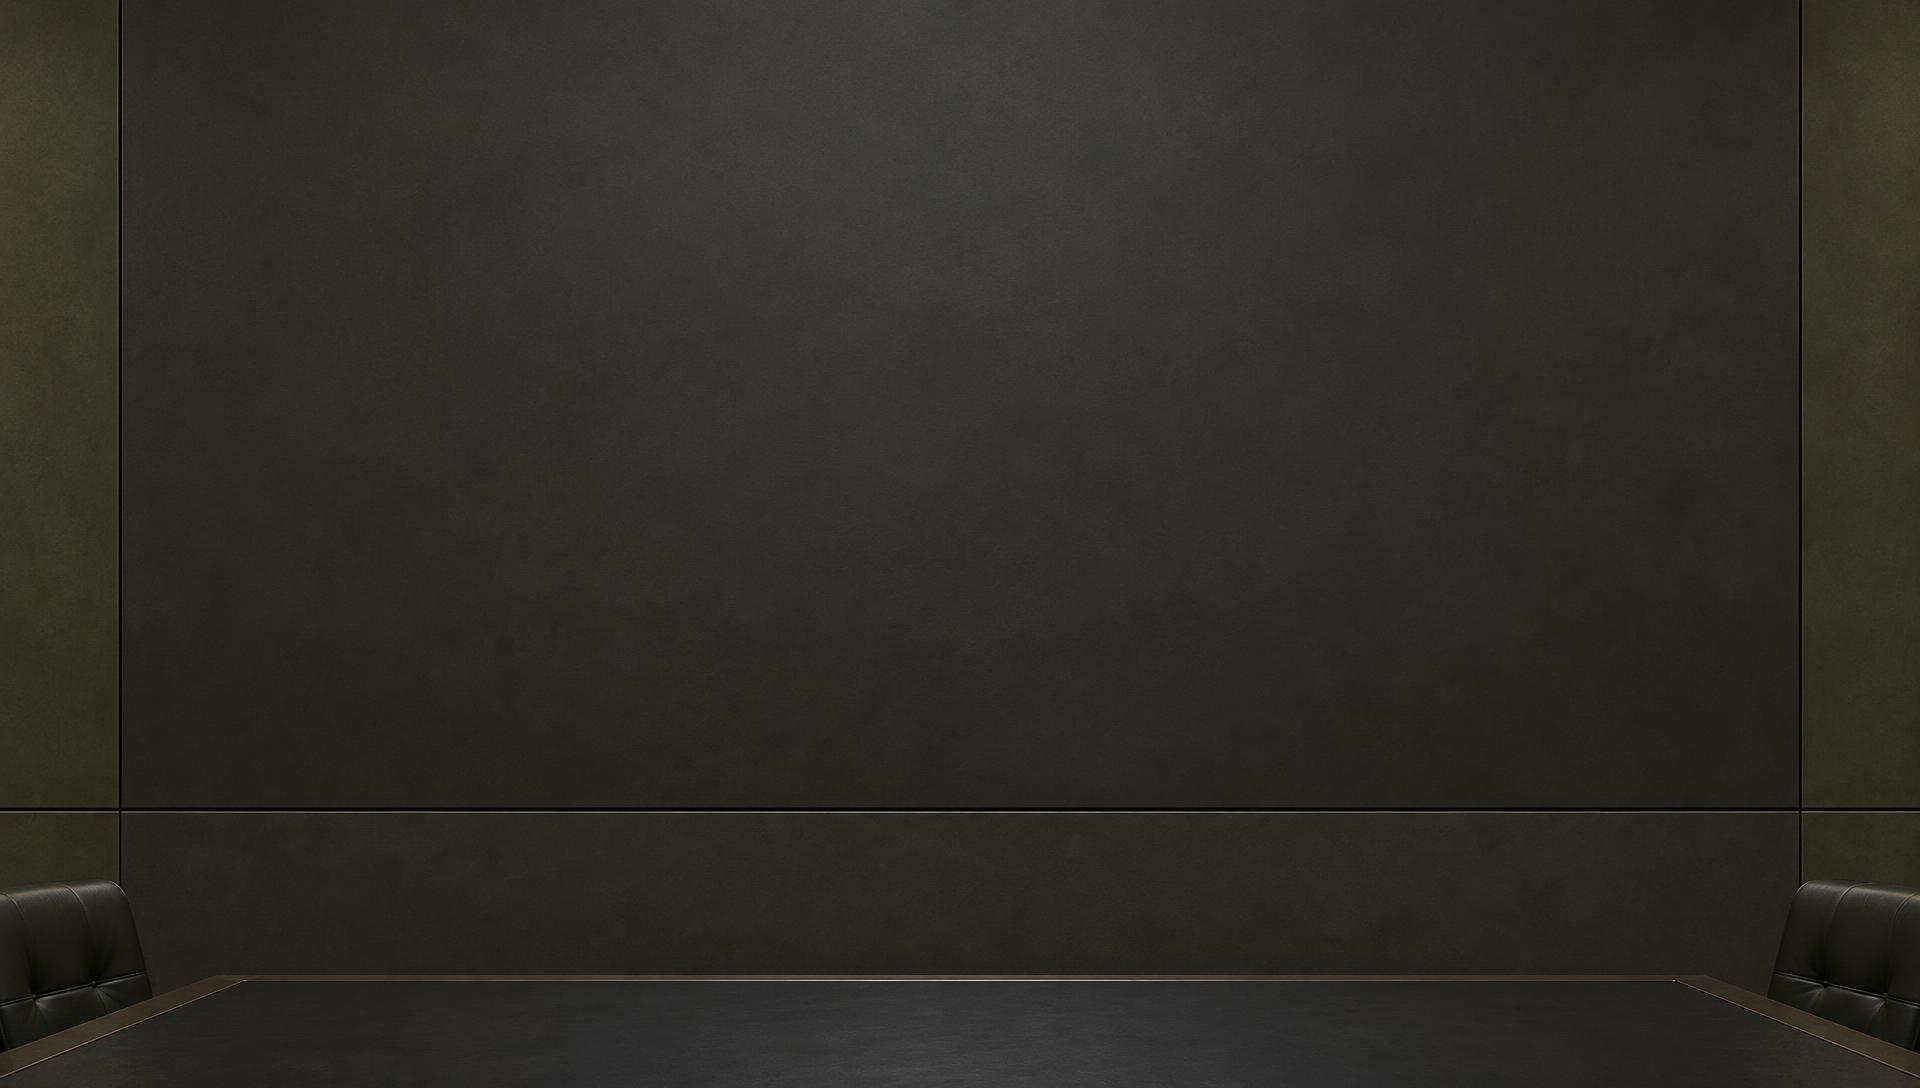
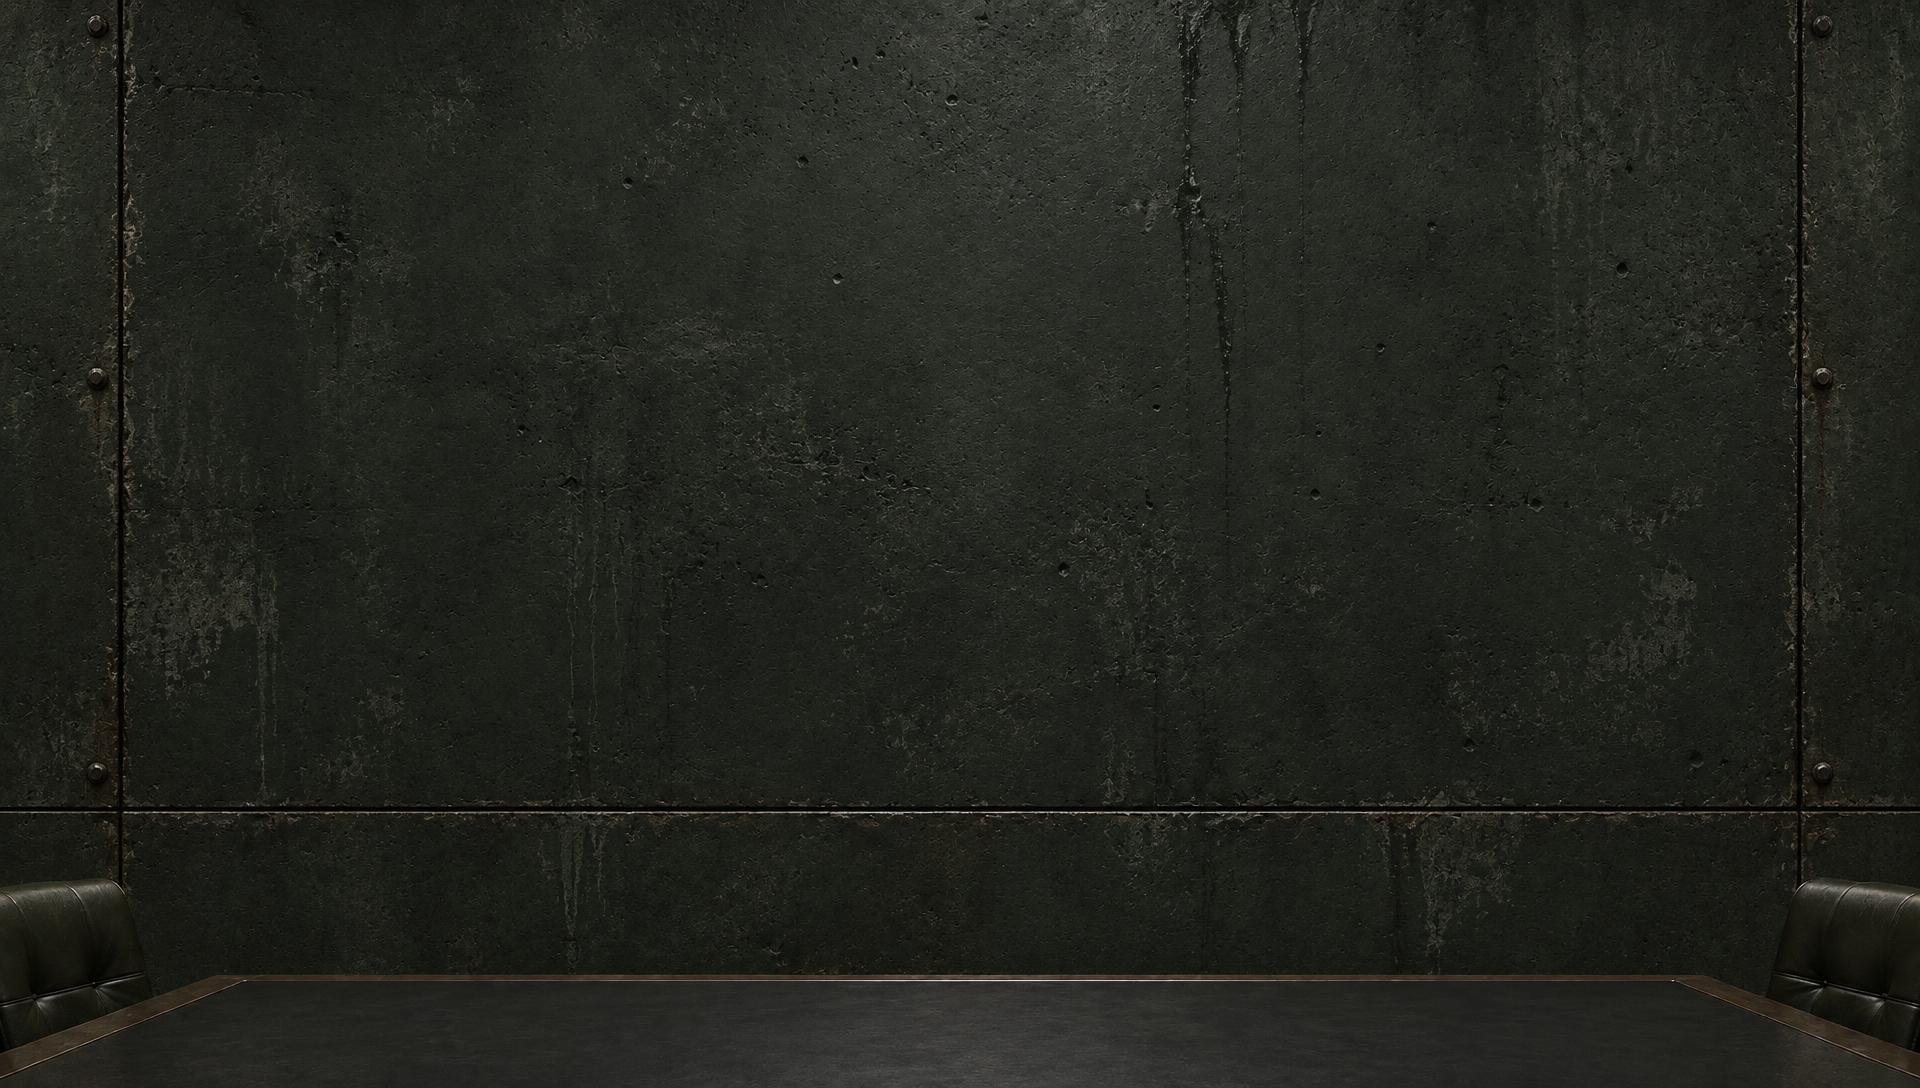
Add worn bunker walls and industrial surface texture to SitRep

diff --git a/src/styles.css b/src/styles.css
@@ -138,6 +138,8 @@
   --report-rule: color-mix(in oklab, var(--radar-phosphor) 28%, transparent);
   --room-shade: color-mix(in oklab, var(--bunker-green) 30%, transparent);
   --console-shadow: 0 4px 16px oklch(0.08 0.008 112 / 45%);
+  --bunker-edge-shadow: inset 0 1px 0 color-mix(in oklab, var(--radar-phosphor) 12%, transparent), inset 0 -2px 0 color-mix(in oklab, var(--bunker-green) 80%, transparent), var(--console-shadow);
+  --bunker-grain: repeating-linear-gradient(0deg, transparent 0 3px, color-mix(in oklab, var(--document-ivory) 2%, transparent) 3px 4px), repeating-linear-gradient(93deg, transparent 0 47px, color-mix(in oklab, var(--radar-phosphor) 3%, transparent) 47px 48px);
   --sentiment-positive-rgb: 180 215 187;
   --sentiment-neutral-rgb: 81 155 255;
   --sentiment-negative-rgb: 228 91 75;
@@ -218,14 +220,33 @@
 
 .briefing-header {
   background: var(--background);
-  border-top: 3px solid var(--primary);
-  box-shadow: var(--console-shadow);
+  background-image: var(--bunker-grain);
+  border-top: 3px solid var(--report-rule);
+  box-shadow: var(--bunker-edge-shadow);
 }
 
 .briefing-console {
   background: var(--card);
+  background-image: var(--bunker-grain);
   border-bottom: 1px solid var(--border);
-  box-shadow: var(--console-shadow);
+  box-shadow: var(--bunker-edge-shadow);
+}
+
+aside[aria-label="The Briefing"] {
+  background-image: var(--bunker-grain);
+  border-width: 2px;
+  box-shadow: var(--bunker-edge-shadow);
+}
+
+aside[aria-label="The Briefing"] > div:first-child {
+  border-bottom-width: 2px;
+  background-color: color-mix(in oklab, var(--bunker-green) 92%, var(--radar-phosphor));
+  box-shadow: inset 0 1px 0 var(--border);
+}
+
+.briefing-console [role="combobox"] {
+  border-radius: 0;
+  box-shadow: inset 0 1px 3px color-mix(in oklab, var(--bunker-green) 70%, transparent);
 }
 
 .briefing-room-image {
@@ -246,7 +267,8 @@
   content: "";
   position: absolute;
   inset: 16px;
-  border: 1px solid var(--border);
+  border: 2px solid var(--report-rule);
+  box-shadow: var(--bunker-edge-shadow);
   pointer-events: none;
   z-index: 1;
 }
